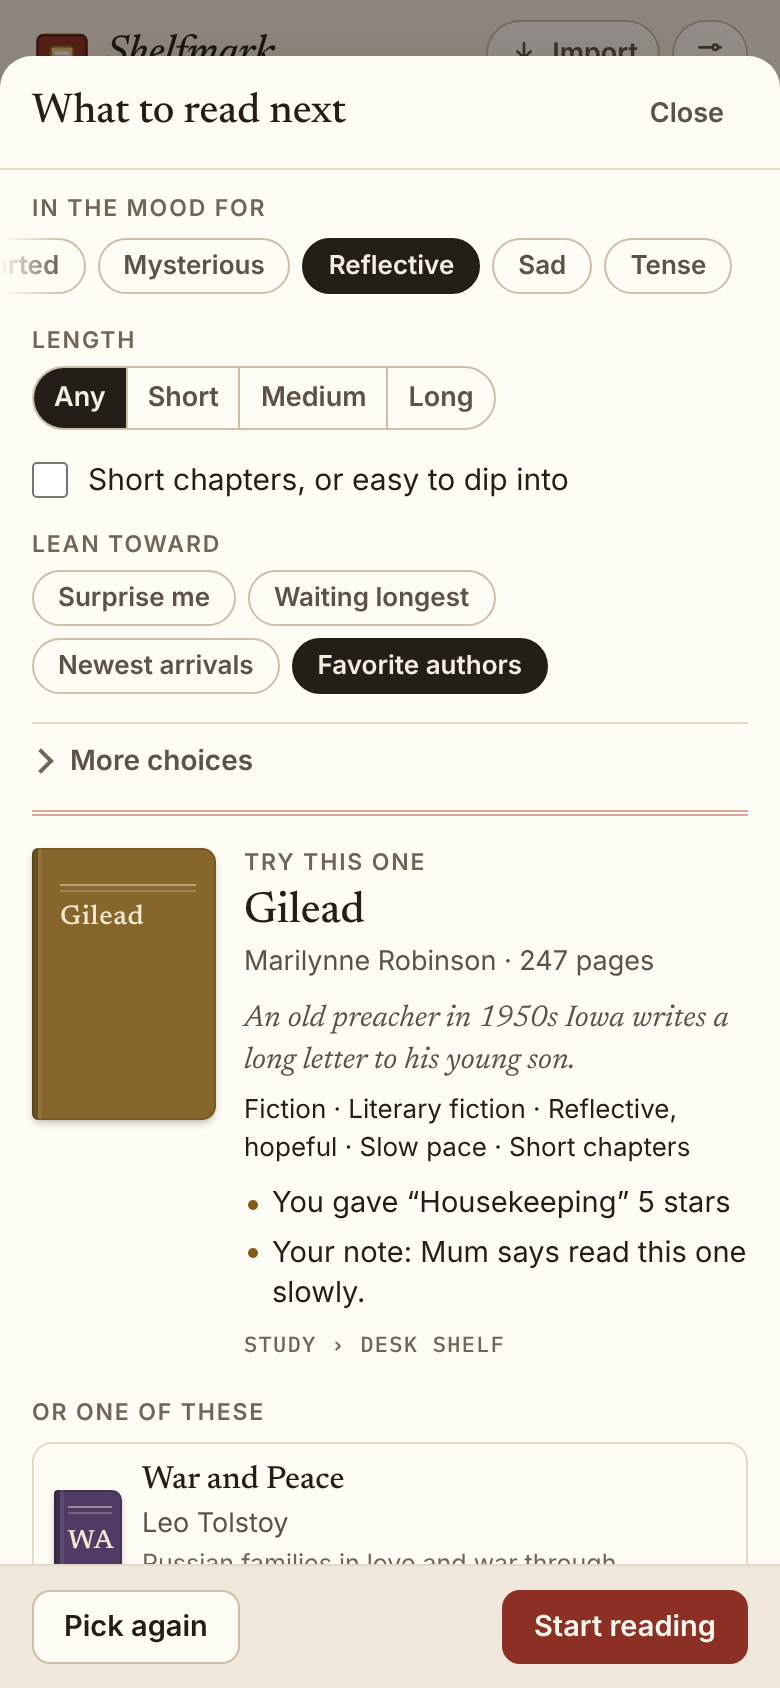
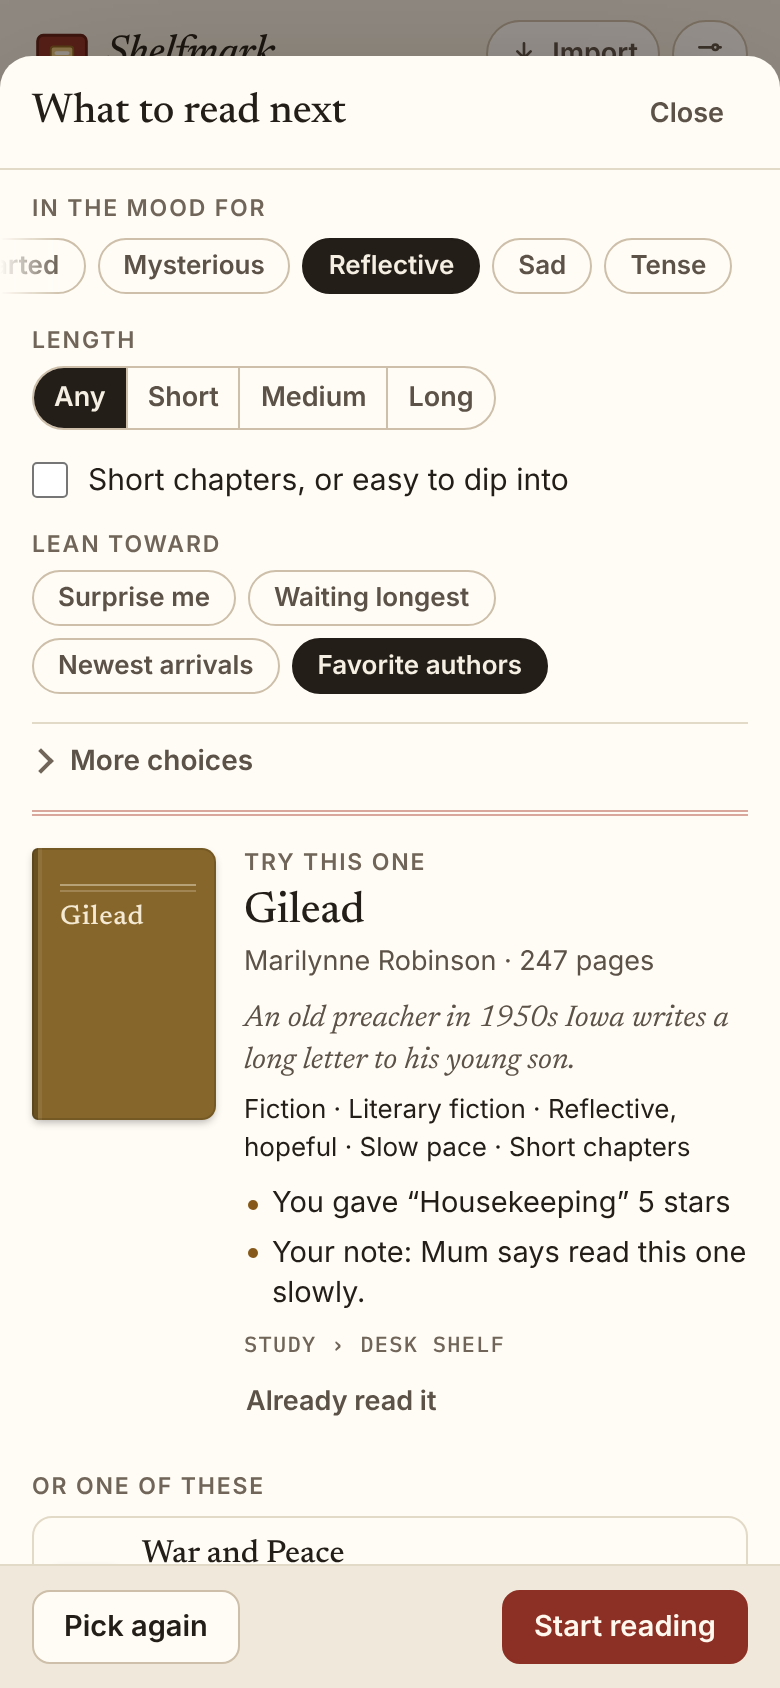
Describe What to read next's new ways in the README, and redraw its picture
The README said nothing of one copy of each book, the volumes of a set
in order, the choices offered only when they bring a pick, the buttons
when nothing matches, Already read it, Start reading saying where the
book is, or stars marking an unread book read. It does now, and the
What to read next picture, redrawn with tools/screenshots.mjs, shows
Already read it under the pick's shelf.

Claude-Session: https://claude.ai/code/session_01LTHvo7Z5hkZa4XvN3zH5Na

Changed region(s): [[0.0308, 0.8009, 0.4615, 0.9242], [0.4615, 0.8009, 0.5538, 0.8626]]

diff --git a/README.md b/README.md
@@ -9,7 +9,7 @@
   &nbsp;
   <img src="docs/phone-review.png" alt="Add books from Claude: five books from a photo of the hall console table, to be shelved in Hall › Console table, with The Overstory flagged to check for glare over the author and Piranesi unticked because it's already in the library" width="250">
   &nbsp;
-  <img src="docs/phone-next.png" alt="What to read next, for fiction in a reflective mood, leaning toward favorite authors: try Gilead by Marilynne Robinson, an old preacher in 1950s Iowa writing a long letter to his young son; literary fiction, reflective and hopeful, slow, with short chapters; because you gave Housekeeping 5 stars and your note says to read it slowly. Or War and Peace." width="250">
+  <img src="docs/phone-next.png" alt="What to read next, for fiction in a reflective mood, leaning toward favorite authors: try Gilead by Marilynne Robinson, an old preacher in 1950s Iowa writing a long letter to his young son; literary fiction, reflective and hopeful, slow, with short chapters; because you gave Housekeeping 5 stars and your note says to read it slowly; it's on Study › Desk shelf, with Already read it below. Or War and Peace." width="250">
 </p>
 
 ## How it works
@@ -18,7 +18,7 @@
   - title, subtitle, authors
   - ISBN, publisher, year, pages, format
   - where it is: a room and a shelf, in your own words; one typed with other capitals ("Living Room") goes into the one you have ("Living room")
-  - unread, reading or read, and a rating
+  - unread, reading or read, and a rating (stars given to an unread book mark it read)
   - who you lent it to, and since when
   - tags and notes
   - edition details: signed, first edition, condition, printing
@@ -30,12 +30,13 @@
   - see anything Claude wasn't sure of, marked **Check**.
   Checked books keep a **To check** filter until you say they're right.
 - **Reading details.** Claude can add what each book is like: fiction, nonfiction or poetry; genres; moods (funny, tense, reflective…); pace; chapter length; whether it's read cover to cover, dipped into, or browsed (cookbooks, picture books, reference); a line about it; and a page count where there's none. Ask Claude with the Shelfmark skill, and it reads your library (from Drive, or a backup you send) and hands back a link. Opening it shows the list, then fills in only what each book doesn't have yet. Each book's card has a **Reading details** section to change them by hand.
-- **What to read next.** Tap **What to read next?** for a suggestion from the unread books you have on hand (lent-out books, and books you browse rather than read, are left out), with two more to choose from.
+- **What to read next.** Tap **What to read next?** for a suggestion from the unread books you have on hand (lent-out books, and books you browse rather than read, are left out), with two more to choose from. Each book counts once, however many copies you have, and a copy of one you've read or are reading doesn't come up; the volumes of a set come in order, the next one once you've read the one before ("Next in the set: you've read Book 1").
   - With reading details, choose fiction, nonfiction or poetry, the moods you're in for (any of those picked), and short chapters or something to dip into. **More choices** has genre, pace, tag, room, and books you browse.
   - Narrow it by length (short is under 250 pages, long over 450), once some of your books have a page count.
-  - Lean it toward books **waiting longest** or the **newest arrivals**, once books were added on different days, or toward **favorite authors** (ones whose books you've read and rated highly), once one of theirs is waiting unread. **Surprise me** is a plain random pick. Only the choices that would change something are offered.
-  - Tick **Include rereads** to bring back books you gave four or five stars.
-  - Each suggestion has its line and details, says why in plain words ("You gave “Housekeeping” 5 stars", "Your note: …"), and which shelf it's on. **Pick again** works through every match before repeating one, and **Start reading** marks it Reading.
+  - Lean it toward books **waiting longest** or the **newest arrivals**, once books were added on different days, or toward **favorite authors** (ones whose books you've read and rated highly), once one of theirs is waiting unread. **Surprise me** is a plain random pick. Only the choices that would bring a pick are offered: with Poetry chosen, only the moods, paces, lengths, rooms and tags your poems have.
+  - Tick **Include rereads** to bring back books you gave four or five stars; the notes say when one of them would match.
+  - When nothing matches, a button puts the choice in the way back to Any ("Any length · 14 books"), or **Clear these choices** starts over.
+  - Each suggestion has its line and details, says why in plain words ("You gave “Housekeeping” 5 stars", "Your note: …"), and which shelf it's on. **Pick again** works through every match before repeating one, and never shows the same pick twice running. **Already read it** marks it Read and picks again, and **Start reading** marks it Reading and says where it is.
   - Your choices are remembered on each device.
 - **Covers and lookups** from Open Library, only if you turn them on in Settings. Covers are found by ISBN, or by title and author for a book without one (so a cover may show another edition), and each cover's id is remembered in the browser. Lookups send the ISBN, title and author, nothing else.
 - **Backups.** Download the whole library as a file, and open it on any device (it merges, after saying how many books it would add, change or remove). There's a spreadsheet (CSV) too, to read or print; it doesn't open back in Shelfmark.
@@ -146,12 +147,12 @@ To put it online with GitHub Pages: **Settings → Pages → Build and deploymen
 - **ISBNs:** ISBN-10 to ISBN-13 conversion, and check digits.
 - **Cleaning:** every field is trimmed, clamped and mapped, and a book cleaned again comes out the same (text cut at its limit, emoji, a "Jr." after an empty name, long ids, ids like `constructor`).
 - **Merging:** hundreds of random libraries merge the same whatever the order, and a later removal or edit wins.
-- **Random books:** a seeded run over thousands of random books, with text at its limits, emoji, odd white space and names with a "Jr.", checks in about half a second that cleaning a book twice gives the same book, that merging rich books is order-free, that reading details change only the details (and a blank page count) and find every copy and never a removed book, and that What to read next, dealt again and again, shows every match before repeating one and never suggests a book lent out, being read or browsed.
+- **Random books:** a seeded run over thousands of random books, with text at its limits, emoji, odd white space and names with a "Jr.", checks in about half a second that cleaning a book twice gives the same book, that merging rich books is order-free, that reading details change only the details (and a blank page count) and find every copy and never a removed book, and that What to read next, dealt again and again, shows every match before repeating one and never suggests two copies of a book, a later volume before an earlier one, or a book lent out, being read or browsed.
 - **Duplicates:** matched by ISBN, and by title and author surname.
 - **Links:** compressed, uncompressed, hand-written and pasted links all open, and so does JSON pasted with Claude's words around it (in a code block, or after a line of text).
 - **The skill's script:** it reads numbers as printed ("2 vols, 880", "2nd ed. 1999"), yes or no, authors and tags just as the page does, its link and file open in the page with every field intact, a list of over 3,000 books comes out as numbered files, and Goodreads and LibraryThing exports come in cleaned up. This runs when `python3` is available.
 - **Spreadsheet export:** quoting, and defusing cells that would otherwise run as formulas (those starting with = + - @, a tab or a line break, or a full-width ＝ ＋ － ＠, as OWASP's CSV Injection page lists them), leaving plain numbers alone.
-- **What to read next:** which books can be suggested, that each lean and each mood picked pulls the way it says, the reasons given, and that every match comes up before any repeats.
+- **What to read next:** which books can be suggested (one copy of each, the first unread volume of a set), that each lean and each mood picked pulls the way it says, the reasons given, that every match comes up before any repeats, that each choice offered brings a pick or says what would, and the choices to put back to Any when nothing matches.
 - **Reading details:** words and labels are mapped onto Shelfmark's, details find their book by id, or else every copy with its ISBN or title and author (two translations each get their own), count each book once, fill only blanks (or replace when asked) and never a page count already there, and the skill's script and the page know the same words.
 
 ### Files
